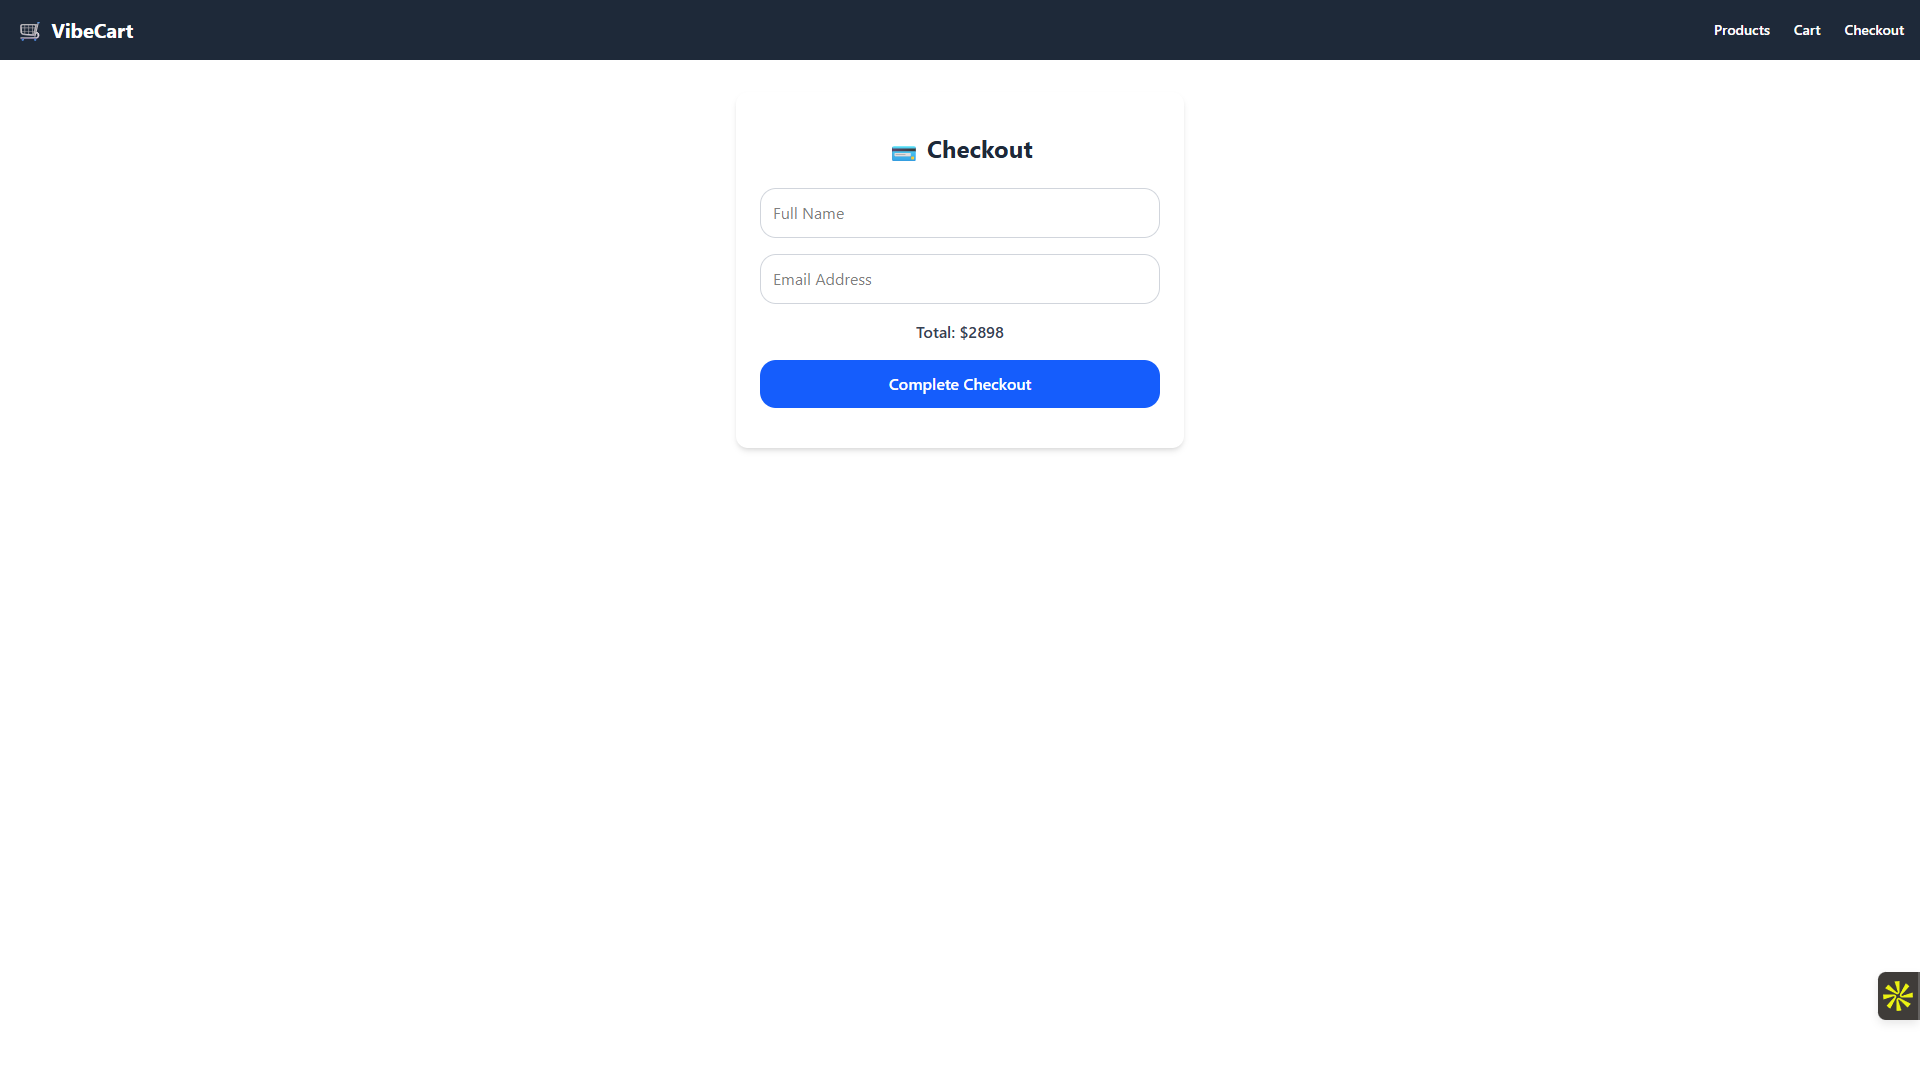
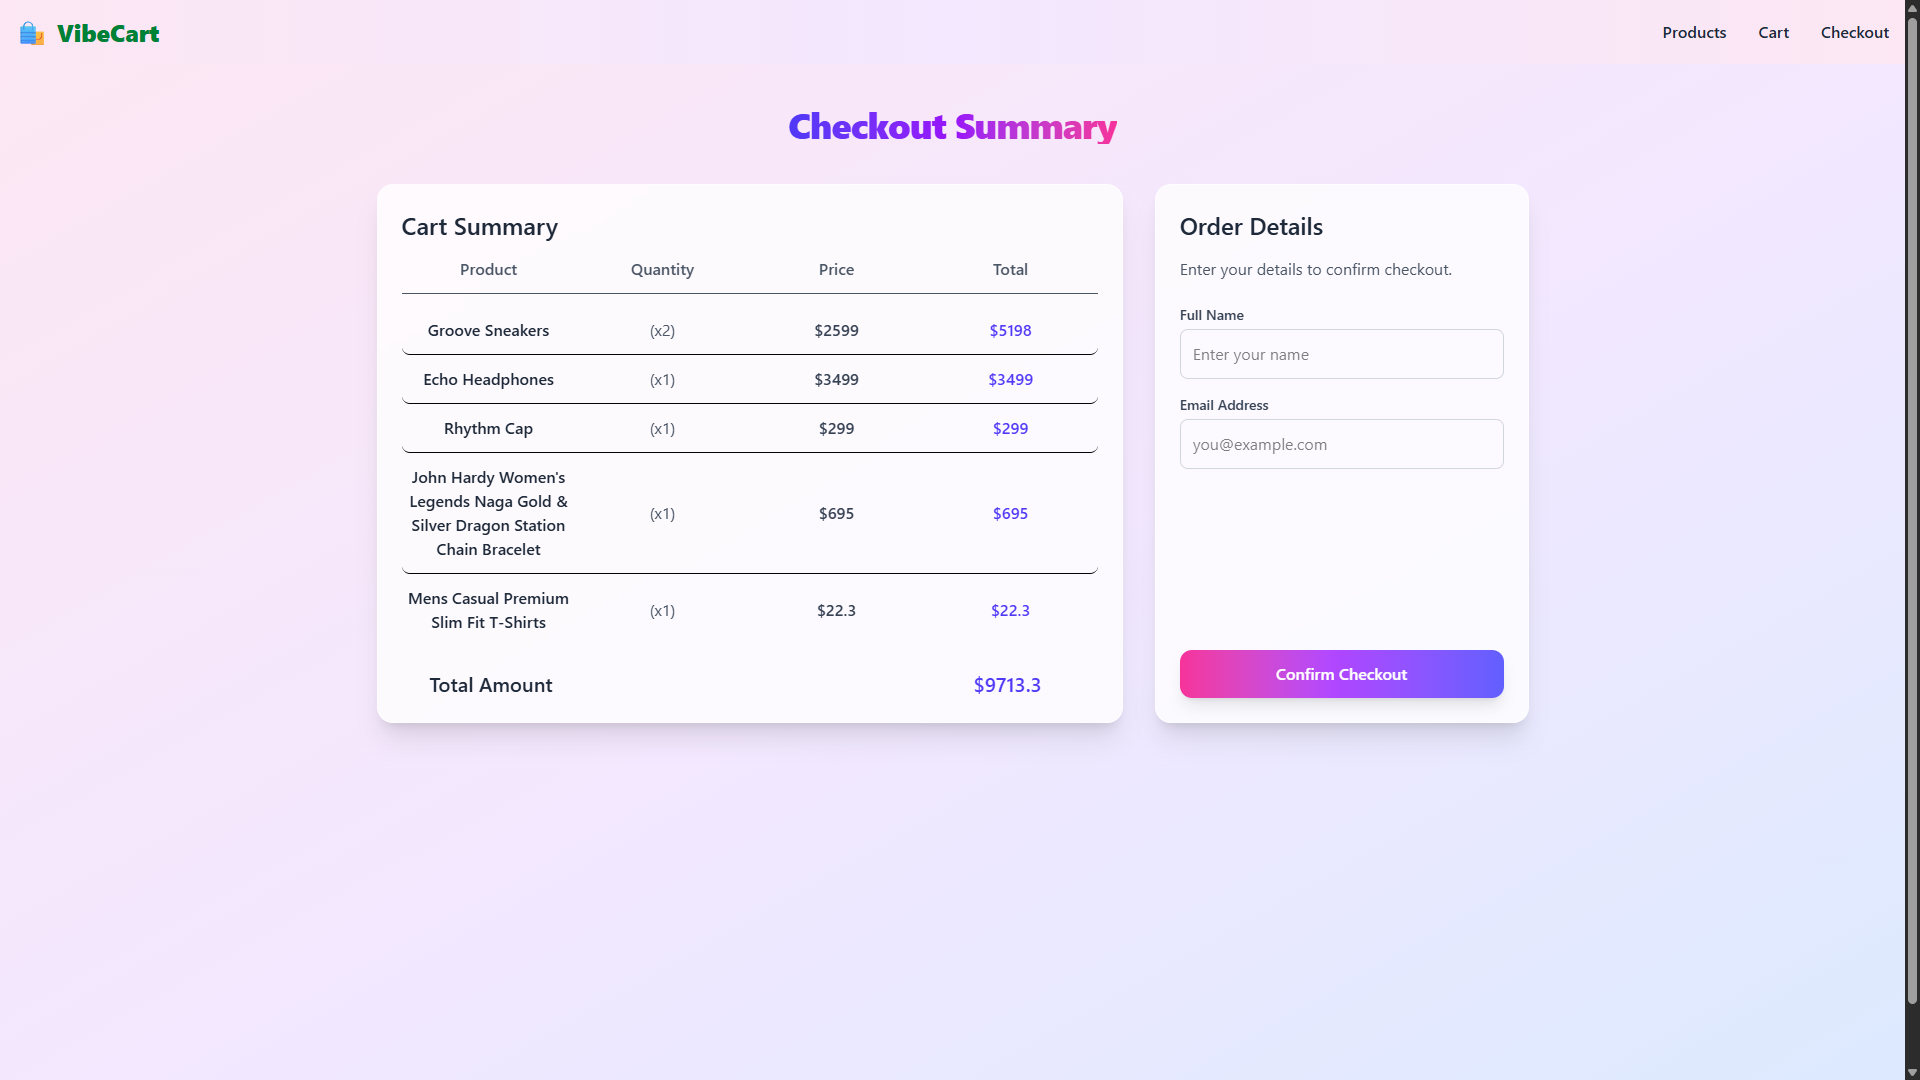
update: update the UI for cart and chckout page too and updated the screenshots also

diff --git a/frontend/src/components/Checkout.jsx b/frontend/src/components/Checkout.jsx
@@ -1,147 +1,71 @@
 import { useEffect, useState } from "react";
-import { checkout, getCart } from "../api";
+import { getCart, checkout } from "../api";
 
 const Checkout = () => {
-  const [name, setName] = useState("");
-  const [email, setEmail] = useState("");
-  const [receipt, setReceipt] = useState(null);
-  const [errors, setErrors] = useState({});
-  const [loading, setLoading] = useState(false);
   const [cart, setCart] = useState({ items: [], total: 0 });
+  const [loading, setLoading] = useState(false);
+  const [form, setForm] = useState({ name: "", email: "" });
+  const [errors, setErrors] = useState({});
+  const [receipt, setReceipt] = useState(null);
 
-  const validate = () => {
-    const newErrors = {};
-    if (!name.trim()) newErrors.name = "Full name is required.";
-    if (!email.trim()) {
-      newErrors.email = "Email address is required.";
-    } else if (!/^[^\s@]+@[^\s@]+\.[^\s@]+$/.test(email)) {
-      newErrors.email = "Please enter a valid email address.";
-    }
-    if (cart.total === 0) {
-      newErrors.form = "Your cart is empty. Please add some products first.";
-    }
-    setErrors(newErrors);
-    return Object.keys(newErrors).length === 0;
-  };
-
-  const handleCheckout = async () => {
-    if (!validate()) return;
-
-    setLoading(true);
-    try {
-      const res = await checkout({
-        name,
-        email,
-      });
-      setReceipt(res.data.receipt);
-    } catch (error) {
-      console.error("Checkout error:", error);
-      setErrors({
-        form:
-          error.response?.data?.error ||
-          "Something went wrong during checkout. Please try again.",
-      });
-    } finally {
-      setLoading(false);
-    }
-  };
-
-  // ✅ Load cart data once
   useEffect(() => {
     const fetchCart = async () => {
       try {
         const { data } = await getCart();
         setCart(data);
       } catch (err) {
-        console.error("Failed to load cart:", err);
+        console.error("Failed to fetch cart:", err);
       }
     };
     fetchCart();
   }, []);
 
-  return (
-    <div className="max-w-md mx-auto px-6 py-10 bg-white shadow-md rounded-xl mt-8">
-      <h2 className="text-2xl font-bold mb-6 text-gray-800 text-center">
-        💳 Checkout
-      </h2>
+  const validate = () => {
+    const newErrors = {};
+    if (!form.name.trim()) newErrors.name = "Full name is required.";
+    if (!form.email.trim()) newErrors.email = "Email is required.";
+    else if (!/^[^\s@]+@[^\s@]+\.[^\s@]+$/.test(form.email))
+      newErrors.email = "Please enter a valid email address.";
+    if (cart.total === 0) newErrors.form = "Your cart is empty.";
+    setErrors(newErrors);
+    return Object.keys(newErrors).length === 0;
+  };
 
-      {cart.items.length === 0 ? (
-        <p className="text-gray-600 text-center">
-          Your cart is empty.{" "}
-          <a href="/" className="text-blue-600 underline">
-            Shop now
-          </a>
-          .
-        </p>
-      ) : !receipt ? (
-        <>
-          <div className="space-y-4">
-            <div>
-              <input
-                type="text"
-                placeholder="Full Name"
-                value={name}
-                onChange={(e) => setName(e.target.value)}
-                className={`border p-3 w-full rounded-lg focus:outline-none focus:ring-2 ${
-                  errors.name
-                    ? "border-red-500 focus:ring-red-400"
-                    : "border-gray-300 focus:ring-blue-500"
-                }`}
-              />
-              {errors.name && (
-                <p className="text-red-500 text-sm mt-1">{errors.name}</p>
-              )}
-            </div>
+  const handleCheckout = async () => {
+    if (!validate()) return;
+    setLoading(true);
+    try {
+      const res = await checkout(form);
+      setReceipt(res.data.receipt);
+    } catch (err) {
+      console.error("Checkout failed:", err);
+      setErrors({
+        form:
+          err.response?.data?.error ||
+          "Something went wrong. Please try again.",
+      });
+    } finally {
+      setLoading(false);
+    }
+  };
 
-            <div>
-              <input
-                type="email"
-                placeholder="Email Address"
-                value={email}
-                onChange={(e) => setEmail(e.target.value)}
-                className={`border p-3 w-full rounded-lg focus:outline-none focus:ring-2 ${
-                  errors.email
-                    ? "border-red-500 focus:ring-red-400"
-                    : "border-gray-300 focus:ring-blue-500"
-                }`}
-              />
-              {errors.email && (
-                <p className="text-red-500 text-sm mt-1">{errors.email}</p>
-              )}
-            </div>
+  const handleChange = (e) => {
+    setForm({ ...form, [e.target.name]: e.target.value });
+  };
 
-            {errors.form && (
-              <p className="text-red-500 text-center text-sm">{errors.form}</p>
-            )}
-
-            <div className="text-gray-700 text-center font-medium">
-              Total: ${cart.total}
-            </div>
-
-            <button
-              onClick={handleCheckout}
-              disabled={loading || cart.total === 0}
-              className={`w-full py-3 rounded-lg text-white font-semibold transition ${
-                loading || cart.total === 0
-                  ? "bg-blue-400 cursor-not-allowed"
-                  : "bg-blue-600 hover:bg-blue-700"
-              }`}
-            >
-              {loading ? "Processing..." : "Complete Checkout"}
-            </button>
-          </div>
-        </>
-      ) : (
-        <div className="mt-6 border-t pt-6 text-center">
-          <h3 className="text-xl font-semibold text-gray-800 mb-2">
+  if (receipt) {
+    return (
+      <div className="min-h-screen bg-gradient-to-br from-pink-100 via-purple-100 to-blue-100 flex items-center justify-center p-6">
+        <div className="bg-white/90 backdrop-blur-lg border border-white/50 rounded-2xl shadow-2xl p-10 max-w-lg w-full text-center">
+          <h3 className="text-3xl font-bold text-green-600 mb-2">
             ✅ Payment Successful!
           </h3>
-          <p className="text-gray-600 mb-4">
+          <p className="text-gray-700 mb-4">
             Thank you for your purchase,{" "}
-            <span className="font-medium">{name}</span>!
+            <span className="font-semibold">{form.name}</span>!
           </p>
 
-          <div className="bg-gray-50 p-4 rounded-lg border text-left">
+          <div className="bg-gray-50 p-5 rounded-lg border text-left shadow-sm mb-6">
             <p className="text-gray-700 mb-2">
               <span className="font-semibold">Total:</span> ${receipt.total}
             </p>
@@ -153,12 +77,142 @@ const Checkout = () => {
 
           <button
             onClick={() => (window.location.href = "/")}
-            className="mt-6 bg-green-600 text-white px-6 py-2 rounded-lg hover:bg-green-700 transition"
+            className="bg-gradient-to-r from-pink-500 via-purple-500 to-indigo-500 hover:from-pink-600 hover:to-indigo-600 text-white px-6 py-3 rounded-xl font-semibold shadow-lg hover:shadow-xl transition-all duration-300 active:scale-95"
           >
             Continue Shopping
           </button>
         </div>
-      )}
+      </div>
+    );
+  }
+
+  return (
+    <div className="min-h-screen bg-gradient-to-br from-pink-100 via-purple-100 to-blue-100 flex flex-col items-center py-10 px-4">
+      <h1 className="text-4xl font-extrabold text-transparent bg-gradient-to-r from-indigo-600 via-purple-600 to-pink-500 bg-clip-text mb-10 tracking-tight text-center">
+        Checkout Summary
+      </h1>
+
+      <div className="w-full max-w-6xl flex flex-col lg:flex-row gap-8">
+        {/* Cart Summary */}
+        <div className="w-full lg:w-2/3 bg-white/80 backdrop-blur-lg border border-white/50 rounded-2xl shadow-xl p-6 hover:shadow-2xl transition-all duration-300 flex flex-col">
+          <h2 className="text-2xl font-semibold text-gray-800 mb-4">
+            Cart Summary
+          </h2>
+
+          <div className="grid grid-cols-4 text-gray-600 font-semibold border-b pb-3 mb-3 text-center">
+            <span>Product</span>
+            <span>Quantity</span>
+            <span>Price</span>
+            <span>Total</span>
+          </div>
+
+          <div className="flex-1 overflow-y-auto max-h-96">
+            {cart.items.length === 0 ? (
+              <p className="text-center text-gray-500 py-4">
+                Your cart is empty 🛒
+              </p>
+            ) : (
+              cart.items.map((item) => (
+                <div
+                  key={item._id}
+                  className="grid grid-cols-4 items-center text-center py-3 border-b last:border-none hover:bg-gray-100/60 transition rounded-lg"
+                >
+                  <span className="font-medium text-gray-800">
+                    {item.product?.name}
+                  </span>
+                  <span className="text-gray-600">(x{item.qty})</span>
+                  <span className="text-gray-700 font-medium">
+                    ${item.product?.price}
+                  </span>
+                  <span className="text-indigo-600 font-semibold">
+                    ${item.product?.price * item.qty}
+                  </span>
+                </div>
+              ))
+            )}
+          </div>
+
+          <div className="grid grid-cols-4 mt-6 text-xl font-semibold text-gray-800 pr-7">
+            <span className="col-span-3 text-left ml-7">Total Amount</span>
+            <span className="text-indigo-600 font-semibold text-right mr-7">
+              ${cart.total}
+            </span>
+          </div>
+        </div>
+
+        <div className="w-full lg:w-1/3 bg-white/80 backdrop-blur-lg border border-white/50 rounded-2xl shadow-xl p-6 hover:shadow-2xl transition-all duration-300 flex flex-col justify-between">
+          <div>
+            <h2 className="text-2xl font-semibold text-gray-800 mb-4">
+              Order Details
+            </h2>
+            <p className="text-gray-600 mb-6">
+              Enter your details to confirm checkout.
+            </p>
+
+            <div className="flex flex-col gap-4">
+              <div>
+                <label className="block text-sm font-medium text-gray-700 mb-1">
+                  Full Name
+                </label>
+                <input
+                  type="text"
+                  name="name"
+                  value={form.name}
+                  onChange={handleChange}
+                  placeholder="Enter your name"
+                  className={`w-full border p-3 rounded-lg focus:outline-none focus:ring-2 ${
+                    errors.name
+                      ? "border-red-500 focus:ring-red-400"
+                      : "border-gray-300 focus:ring-indigo-500"
+                  }`}
+                />
+                {errors.name && (
+                  <p className="text-red-500 text-sm mt-1">{errors.name}</p>
+                )}
+              </div>
+
+              <div>
+                <label className="block text-sm font-medium text-gray-700 mb-1">
+                  Email Address
+                </label>
+                <input
+                  type="email"
+                  name="email"
+                  value={form.email}
+                  onChange={handleChange}
+                  placeholder="you@example.com"
+                  className={`w-full border p-3 rounded-lg focus:outline-none focus:ring-2 ${
+                    errors.email
+                      ? "border-red-500 focus:ring-red-400"
+                      : "border-gray-300 focus:ring-indigo-500"
+                  }`}
+                />
+                {errors.email && (
+                  <p className="text-red-500 text-sm mt-1">{errors.email}</p>
+                )}
+              </div>
+
+              {errors.form && (
+                <p className="text-red-500 text-center text-sm mt-2">
+                  {errors.form}
+                </p>
+              )}
+            </div>
+          </div>
+
+          <button
+            onClick={handleCheckout}
+            disabled={loading || cart.items.length === 0}
+            className={`mt-8 w-full ${
+              loading
+                ? "bg-indigo-400 cursor-not-allowed"
+                : "bg-gradient-to-r from-pink-500 via-purple-500 to-indigo-500 hover:from-pink-600 hover:to-indigo-600"
+            } text-white font-semibold py-3 rounded-xl shadow-lg hover:shadow-xl transition-all duration-300 active:scale-95`}
+          >
+            {loading ? "Processing..." : "Confirm Checkout"}
+          </button>
+        </div>
+      </div>
     </div>
   );
 };

diff --git a/README.md b/README.md
@@ -190,11 +190,11 @@ Frontend runs by default on [http://localhost:5173](http://localhost:5173)
 
 ### Cart Page
 
-![ProductList](https://raw.githubusercontent.com/Uttam1119/nexora-task/main/screenshots/cart.png "cart")
+![Cart](https://raw.githubusercontent.com/Uttam1119/nexora-task/main/screenshots/cart.png "cart")
 
 ### Checkout Page
 
-![ProductList](https://raw.githubusercontent.com/Uttam1119/nexora-task/main/screenshots/checkout.png "checkout")
+![Checkout](https://raw.githubusercontent.com/Uttam1119/nexora-task/main/screenshots/checkout.png "checkout")
 
 ### Receipt Page
 
